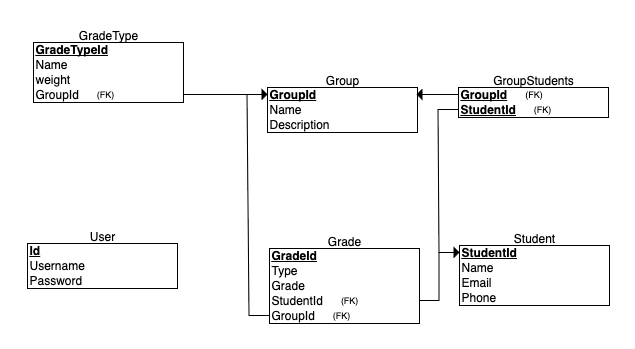
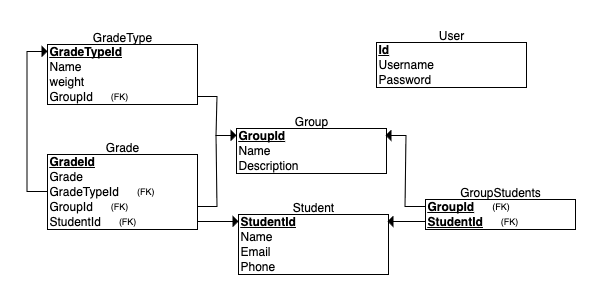
Add user model/dao/controller, user register/login, add database schema into database.sql

Changed region(s): [[0.03, 0.09, 0.9884, 0.93]]

diff --git a/GradeBook/src/main/java/application/GradeBookView.java b/GradeBook/src/main/java/application/GradeBookView.java
@@ -4,32 +4,65 @@ import javafx.application.Application;
 import javafx.scene.Scene;
 import javafx.scene.layout.GridPane;
 import javafx.stage.Stage;
+import javafx.scene.control.*;
+import javafx.scene.layout.VBox;
 
+import controller.UserController;
 
 public class GradeBookView extends Application {
+    private TextField usernameField;
+    private PasswordField passwordField;
+    private Button registerButton;
+    private Button loginButton;
 
     @Override
     public void start(Stage primaryStage) {
-        try {
-            // Load the FXML file
-            //FXMLLoader loader = new FXMLLoader(getClass().getResource("GradeBook.fxml"));
-            // Create a controller instance
-            //GradeBookController controller = new GradeBookController();
-            // Set the controller
-            //loader.setController(controller);
-            // Load the FXML file
-            //Parent root = loader.load();
-            // Create a scene
-            GridPane root = new GridPane();
-            Scene scene = new Scene(root);
-            // Set the scene
-            primaryStage.setScene(scene);
-            // Set the title
-            primaryStage.setTitle("Grade Book");
-            // Show the stage
-            primaryStage.show();
-        } catch (Exception e) {
-            e.printStackTrace();
-        }
+        primaryStage.setTitle("Grade Book");
+
+        // Input fields
+        usernameField = new TextField();
+        usernameField.setPromptText("Username");
+        passwordField = new PasswordField();
+        passwordField.setPromptText("Password");
+
+        // Buttons
+        registerButton = new Button("Register");
+        loginButton = new Button("Login");
+
+        // Layout
+        VBox vbox = new VBox(10, usernameField, passwordField, registerButton, loginButton);
+        Scene scene = new Scene(vbox, 300, 200);
+
+        primaryStage.setScene(scene);
+        primaryStage.show();
+
+        // Create controller and pass view components
+        UserController controller = new UserController(this);
+        registerButton.setOnAction(controller::handleRegister);
+        loginButton.setOnAction(controller::handleLogin);
     }
+
+    public TextField getUsernameField() {
+        return usernameField;
+    }
+
+    public PasswordField getPasswordField() {
+        return passwordField;
+    }
+
+    public Button getRegisterButton() {
+        return registerButton;
+    }
+
+    public Button getLoginButton() {
+        return loginButton;
+    }
+
+    public void showSystemInterface(Stage primaryStage) {
+        Label welcomeLabel = new Label("Welcome to Grade Book!");
+        VBox vbox = new VBox(10, welcomeLabel);
+        Scene scene = new Scene(vbox, 800, 600);
+        primaryStage.setScene(scene);
+    }
+
 }

diff --git a/GradeBook/src/main/java/dao/UserDAO.java b/GradeBook/src/main/java/dao/UserDAO.java
@@ -1,0 +1,50 @@
+package dao;
+
+
+import datasource.MariaDbConnection;
+import model.User;
+
+import java.security.MessageDigest;
+import java.security.NoSuchAlgorithmException;
+import java.sql.Connection;
+import java.sql.PreparedStatement;
+import java.sql.ResultSet;
+import java.sql.SQLException;
+
+
+public class UserDAO {
+    static Connection conn = MariaDbConnection.getConnection();
+
+    public static void registerUser(User user) throws SQLException, NoSuchAlgorithmException {
+        String hashedPassword = hashPassword(user.getPassword());
+        String query = "INSERT INTO users (username, password) VALUES (?, ?)";
+        try (PreparedStatement stmt = conn.prepareStatement(query)) {
+            stmt.setString(1, user.getUsername());
+            stmt.setString(2, hashedPassword);
+            stmt.executeUpdate();
+        }
+    }
+
+    public static boolean loginUser(String username, String password) throws SQLException, NoSuchAlgorithmException {
+        String hashedPassword = hashPassword(password);
+        String query = "SELECT * FROM users WHERE username = ? AND password = ?";
+        try (PreparedStatement stmt = conn.prepareStatement(query)) {
+            stmt.setString(1, username);
+            stmt.setString(2, hashedPassword);
+            ResultSet rs = stmt.executeQuery();
+            return rs.next();
+        }
+    }
+
+    private static String hashPassword(String password) throws NoSuchAlgorithmException {
+        MessageDigest md = MessageDigest.getInstance("SHA-256");
+        byte[] hash = md.digest(password.getBytes());
+        StringBuilder hexString = new StringBuilder();
+        for (byte b : hash) {
+            String hex = Integer.toHexString(0xff & b);
+            if (hex.length() == 1) hexString.append('0');
+            hexString.append(hex);
+        }
+        return hexString.toString();
+    }
+}

diff --git a/GradeBook/src/main/java/controller/UserController.java b/GradeBook/src/main/java/controller/UserController.java
@@ -1,0 +1,49 @@
+package controller;
+
+import application.GradeBookView;
+import dao.UserDAO;
+import javafx.event.ActionEvent;
+import javafx.stage.Stage;
+import model.User;
+
+import java.security.NoSuchAlgorithmException;
+import java.sql.SQLException;
+
+public class UserController {
+    private GradeBookView view;
+
+    public UserController(GradeBookView view) {
+        this.view = view;
+    }
+
+    public void handleRegister(ActionEvent event) {
+        String username = view.getUsernameField().getText();
+        String password = view.getPasswordField().getText();
+        User user = new User(0, username, password);
+        try {
+            UserDAO.registerUser(user);
+            System.out.println("User registered successfully!");
+            if (UserDAO.loginUser(username, password)) {
+                System.out.println("Login successful!");
+                view.showSystemInterface((Stage) view.getRegisterButton().getScene().getWindow());
+            }
+        } catch (SQLException | NoSuchAlgorithmException ex) {
+            ex.printStackTrace();
+        }
+    }
+
+    public void handleLogin(ActionEvent event) {
+        String username = view.getUsernameField().getText();
+        String password = view.getPasswordField().getText();
+        try {
+            if (UserDAO.loginUser(username, password)) {
+                System.out.println("Login successful!");
+                view.showSystemInterface((Stage) view.getLoginButton().getScene().getWindow());
+            } else {
+                System.out.println("Invalid username or password.");
+            }
+        } catch (SQLException | NoSuchAlgorithmException ex) {
+            ex.printStackTrace();
+        }
+    }
+}

diff --git a/GradeBook/src/main/java/model/User.java b/GradeBook/src/main/java/model/User.java
@@ -1,0 +1,42 @@
+package model;
+
+
+public class User {
+    private int id;
+    private String username;
+    private String password;
+
+
+    // Constructors, getters, and setters
+    public User(int id, String username, String password) {
+        this.id = id;
+        this.username = username;
+        this.password = password;
+    }
+
+    public int getId() {
+        return id;
+    }
+
+    public void setId(int id) {
+        this.id = id;
+    }
+
+    public String getUsername() {
+        return username;
+    }
+
+    public void setUsername(String username) {
+        this.username = username;
+    }
+
+    public String getPassword() {
+        return password;
+    }
+
+    public void setPassword(String password) {
+        this.password = password;
+    }
+}
+
+

diff --git a/GradeBook/src/main/java/datasource/MariaDbConnection.java b/GradeBook/src/main/java/datasource/MariaDbConnection.java
@@ -13,7 +13,7 @@ public class MariaDbConnection {
             // connect if necessary
             try {
                 conn = DriverManager.getConnection(
-                        "jdbc:mariadb://localhost:3306/exchanger?user=grade_admin&password=password");
+                        "jdbc:mariadb://localhost:3306/gradebook?user=grade_admin&password=password");
             } catch (SQLException e) {
                 System.out.println("Connection failed.");
                 e.printStackTrace();
